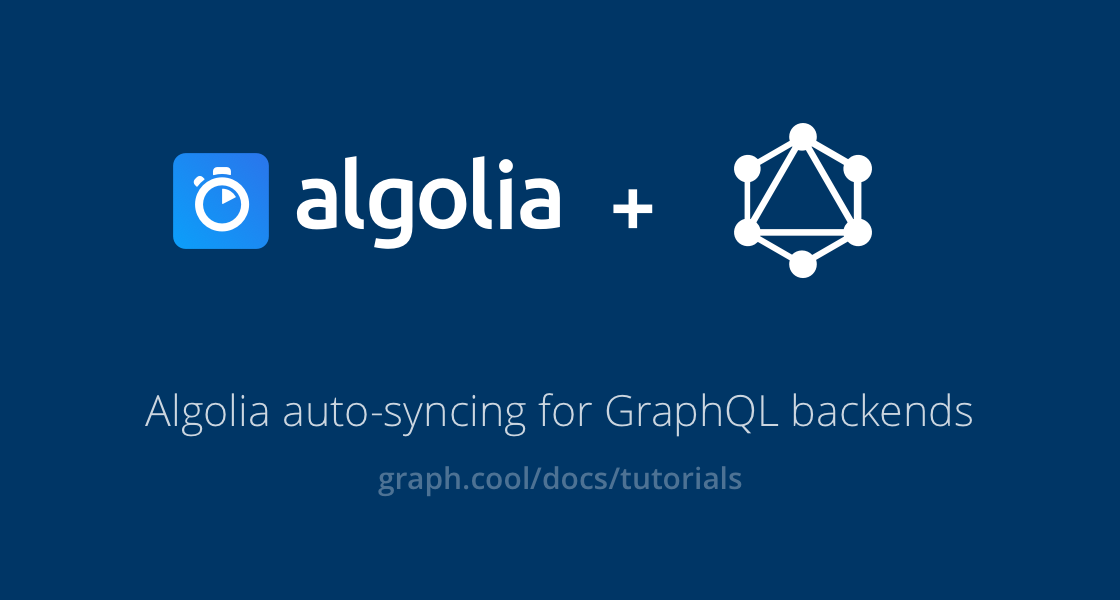
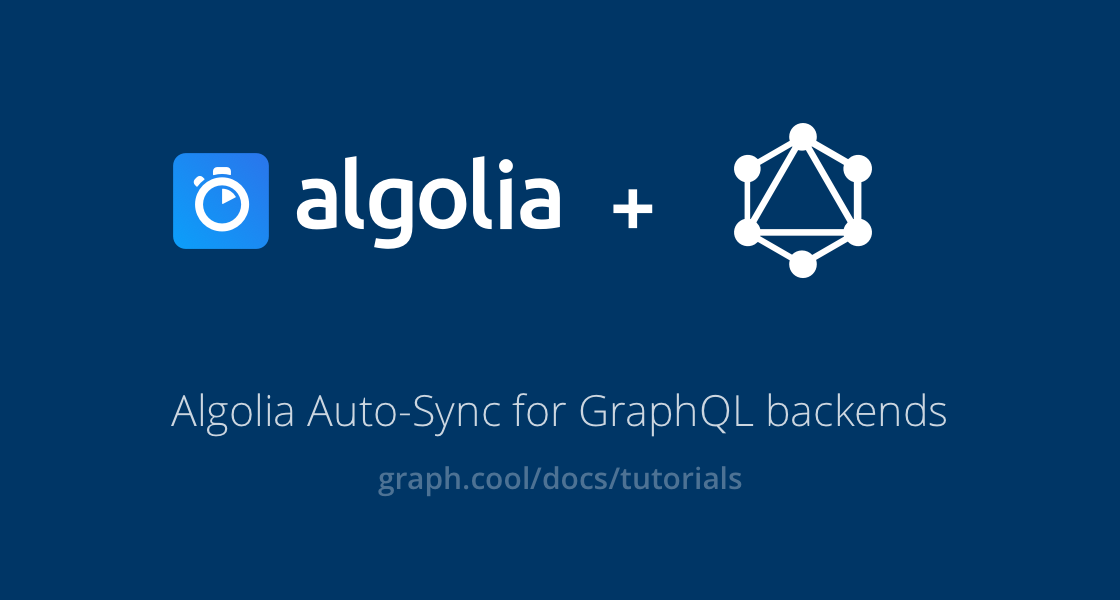
change title

Changed region(s): [[0.125, 0.66, 0.875, 0.72]]

diff --git a/content/tutorials/data-management/using-algolia-instant-search/using-algolia-instant-search.md b/content/tutorials/data-management/using-algolia-instant-search/using-algolia-instant-search.md
@@ -17,7 +17,7 @@ related:
     - pheiph4ooj
 ---
 
-# Algolia auto-syncing for GraphQL backends
+# Algolia Auto-Sync for GraphQL backends
 
 Algolia Instant Search allows you to create an intuitive and fast search experience for your website. Using the Algolia integration, you can get started with using Algolia in minutes. In this tutorial we'll integrate a GraphQL backend with Algolia to automatically synchronize changes to your data to Algolia search indices.
 
